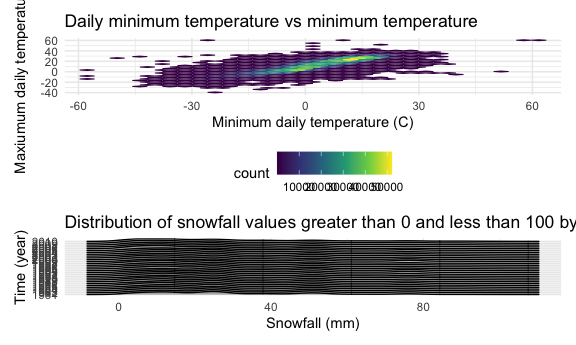
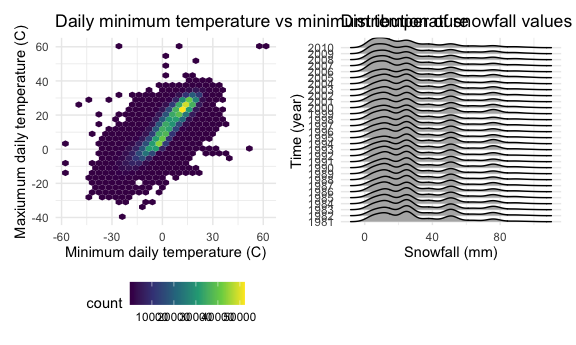
figure revisions

diff --git a/p8105_hw3_ym2770.md b/p8105_hw3_ym2770.md
@@ -358,7 +358,7 @@ snow_plot =
     x = "Snowfall (mm)"
     )
 
-tmax_tmin_plot / snow_plot
+tmax_tmin_plot + snow_plot
 ```
 
     ## Warning: Removed 1136276 rows containing non-finite values (stat_binhex).
